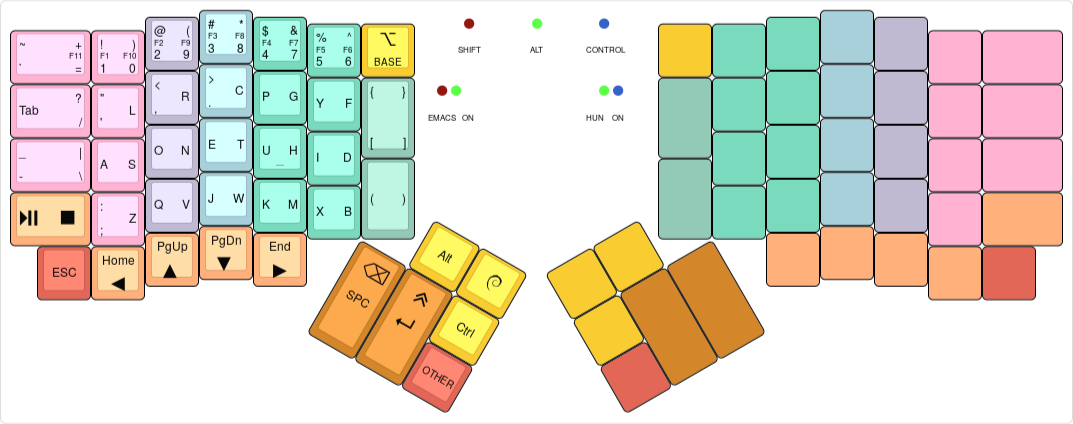
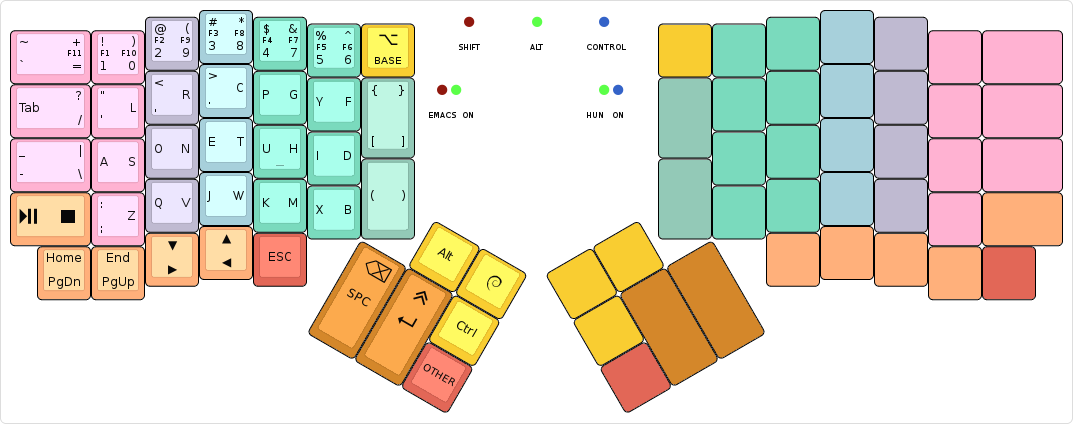
Navigation shakeup!
Fixes #18. Also moves a few keys to better positions.

diff --git a/keymap.c b/keymap.c
@@ -135,7 +135,7 @@ const uint16_t PROGMEM keymaps[][MATRIX_ROWS][MATRIX_COLS] = {
  * |-----------+------+------+------+------+------|   (  |           |  )   |------+------+------+------+------+-----------|
  * | Play/Pause|   ;  |   Q  |   J  |   K  |   X  |      |           |      |   B  |   M  |   W  |   V  |  Z   |      Stop |
  * `-----------+------+------+------+------+-------------'           `-------------+------+------+------+------+-----------'
- *     |  Home | PgUp | PgDn | End  |   :  |                                       | Left |  Up  | Down | Right|Unicode|
+ *     |  Home | End  | Down |  Up  |   :  |                                       |   -  | Left | Right| PgUp | PgDn  |
  *     `-----------------------------------'                                       `-----------------------------------'
  *                                         ,-------------.           ,-------------.
  *                                         | LAlt | GUI  |           |EMACS | 1HND |
@@ -151,7 +151,7 @@ const uint16_t PROGMEM keymaps[][MATRIX_ROWS][MATRIX_COLS] = {
 ,KC_TAB             ,KC_QUOT     ,KC_COMM     ,KC_DOT ,KC_P   ,KC_Y   ,KC_LBRC
 ,KC_MINS            ,KC_A        ,KC_O        ,KC_E   ,KC_U   ,KC_I
 ,KC_MPLY            ,KC_SCLN     ,KC_Q        ,KC_J   ,KC_K   ,KC_X   ,KC_LPRN
-,KC_HOME            ,KC_PGUP     ,KC_PGDN     ,KC_END ,KC_COLN
+,KC_HOME            ,KC_END      ,KC_DOWN     ,KC_UP  ,KC_COLN
 
                                                             ,M(A_ALT),F(F_GUI)
                                                                      ,M(A_CTRL)
@@ -162,7 +162,7 @@ const uint16_t PROGMEM keymaps[][MATRIX_ROWS][MATRIX_COLS] = {
                                                                ,KC_RBRC ,KC_F   ,KC_G   ,KC_C   ,KC_R        ,KC_L        ,KC_SLSH
                                                                         ,KC_D   ,KC_H   ,KC_T   ,KC_N        ,KC_S        ,KC_BSLS
                                                                ,KC_RPRN ,KC_B   ,KC_M   ,KC_W   ,KC_V        ,KC_Z        ,KC_MSTP
-                                                                                ,KC_LEFT,KC_UP  ,KC_DOWN     ,KC_RGHT     ,M(A_UNIC)
+                                                                                ,KC_MINS,KC_LEFT,KC_RGHT     ,KC_PGUP     ,KC_PGDN
 
                                                                ,F(F_ECS),M(OH_LEFT)
                                                                ,F(F_HUN)
@@ -244,7 +244,7 @@ const uint16_t PROGMEM keymaps[][MATRIX_ROWS][MATRIX_COLS] = {
 ,KC_NO   ,KC_NO   ,M(HU_OEE),KC_NO   ,M(HU_UEE),KC_NO   ,KC_NO
 ,KC_NO   ,M(HU_AA),M(HU_OO) ,M(HU_EE),M(HU_UU) ,M(HU_II)
 ,KC_TRNS ,KC_NO   ,M(HU_OE) ,KC_NO   ,M(HU_UE) ,KC_NO   ,KC_NO
-,KC_TRNS ,KC_TRNS ,KC_TRNS  ,KC_TRNS ,KC_TRNS
+,KC_TRNS ,KC_TRNS ,KC_TRNS  ,KC_TRNS ,KC_NO
 
                                              ,KC_TRNS ,KC_TRNS
                                                       ,KC_TRNS
@@ -255,7 +255,7 @@ const uint16_t PROGMEM keymaps[][MATRIX_ROWS][MATRIX_COLS] = {
                                                                ,KC_NO   ,KC_NO   ,KC_NO   ,KC_NO   ,KC_NO   ,KC_NO   ,KC_NO
                                                                         ,KC_NO   ,KC_NO   ,KC_NO   ,KC_NO   ,KC_NO   ,KC_NO
                                                                ,KC_NO   ,KC_NO   ,KC_NO   ,KC_NO   ,KC_NO   ,KC_NO   ,KC_NO
-                                                                                 ,KC_TRNS ,KC_TRNS ,KC_TRNS ,KC_TRNS ,KC_TRNS
+                                                                                 ,KC_NO   ,KC_TRNS ,KC_TRNS ,KC_TRNS ,KC_TRNS
 
                                                                ,KC_NO   ,KC_NO
                                                                ,F(F_BSE)
@@ -316,7 +316,7 @@ const uint16_t PROGMEM keymaps[][MATRIX_ROWS][MATRIX_COLS] = {
  * |-----------+------+------+------+------+------|   (  |
  * | Play/Pause|   ;  |   Q  |   J  |   K  |   X  |      |
  * `-----------+------+------+------+------+-------------'
- *     |  ESC  | Home | PgUp | PgDn | End  |
+ *     |  Home | End  | Down |  Up  | ESC  |
  *     `-----------------------------------'
  *                                         ,-------------.
  *                                         | LAlt | GUI  |
@@ -332,7 +332,7 @@ const uint16_t PROGMEM keymaps[][MATRIX_ROWS][MATRIX_COLS] = {
 ,KC_TAB     ,KC_QUOT     ,KC_COMM     ,KC_DOT    ,KC_P       ,KC_Y    ,KC_LBRC
 ,KC_MINS    ,KC_A        ,KC_O        ,KC_E      ,KC_U       ,KC_I
 ,KC_MPLY    ,KC_SCLN     ,KC_Q        ,KC_J      ,KC_K       ,KC_X    ,KC_LPRN
-,KC_ESC     ,KC_HOME     ,KC_PGUP     ,KC_PGDN   ,KC_END
+,KC_HOME    ,KC_END      ,KC_DOWN     ,KC_UP     ,KC_ESC
 
                                                                 ,M(A_ALT)    ,F(F_GUI)
                                                                              ,M(A_CTRL)
@@ -361,7 +361,7 @@ const uint16_t PROGMEM keymaps[][MATRIX_ROWS][MATRIX_COLS] = {
  * |-----------+------+------+------+------+------|   )  |
  * |      Stop |   Z  |   V  |   W  |   M  |   B  |      |
  * `-----------+------+------+------+------+-------------'
- *     |  ESC  | Left |  Up  | Down | Rght |
+ *     |  PgDn | PgUp | Right| Left | ESC  |
  *     `-----------------------------------'
  *                                         ,-------------.
  *                                         | LAlt | GUI  |
@@ -377,7 +377,7 @@ const uint16_t PROGMEM keymaps[][MATRIX_ROWS][MATRIX_COLS] = {
 ,KC_SLSH    ,KC_L        ,KC_R        ,KC_C      ,KC_G       ,KC_F    ,KC_RBRC
 ,KC_BSLS    ,KC_S        ,KC_N        ,KC_T      ,KC_H       ,KC_D
 ,KC_MSTP    ,KC_Z        ,KC_V        ,KC_W      ,KC_M       ,KC_B    ,KC_RPRN
-,KC_ESC     ,KC_LEFT     ,KC_UP       ,KC_DOWN   ,KC_RIGHT
+,KC_PGDN    ,KC_PGUP     ,KC_RGHT     ,KC_LEFT   ,KC_ESC
 
                                                                 ,M(A_ALT)    ,F(F_GUI)
                                                                              ,M(A_CTRL)
